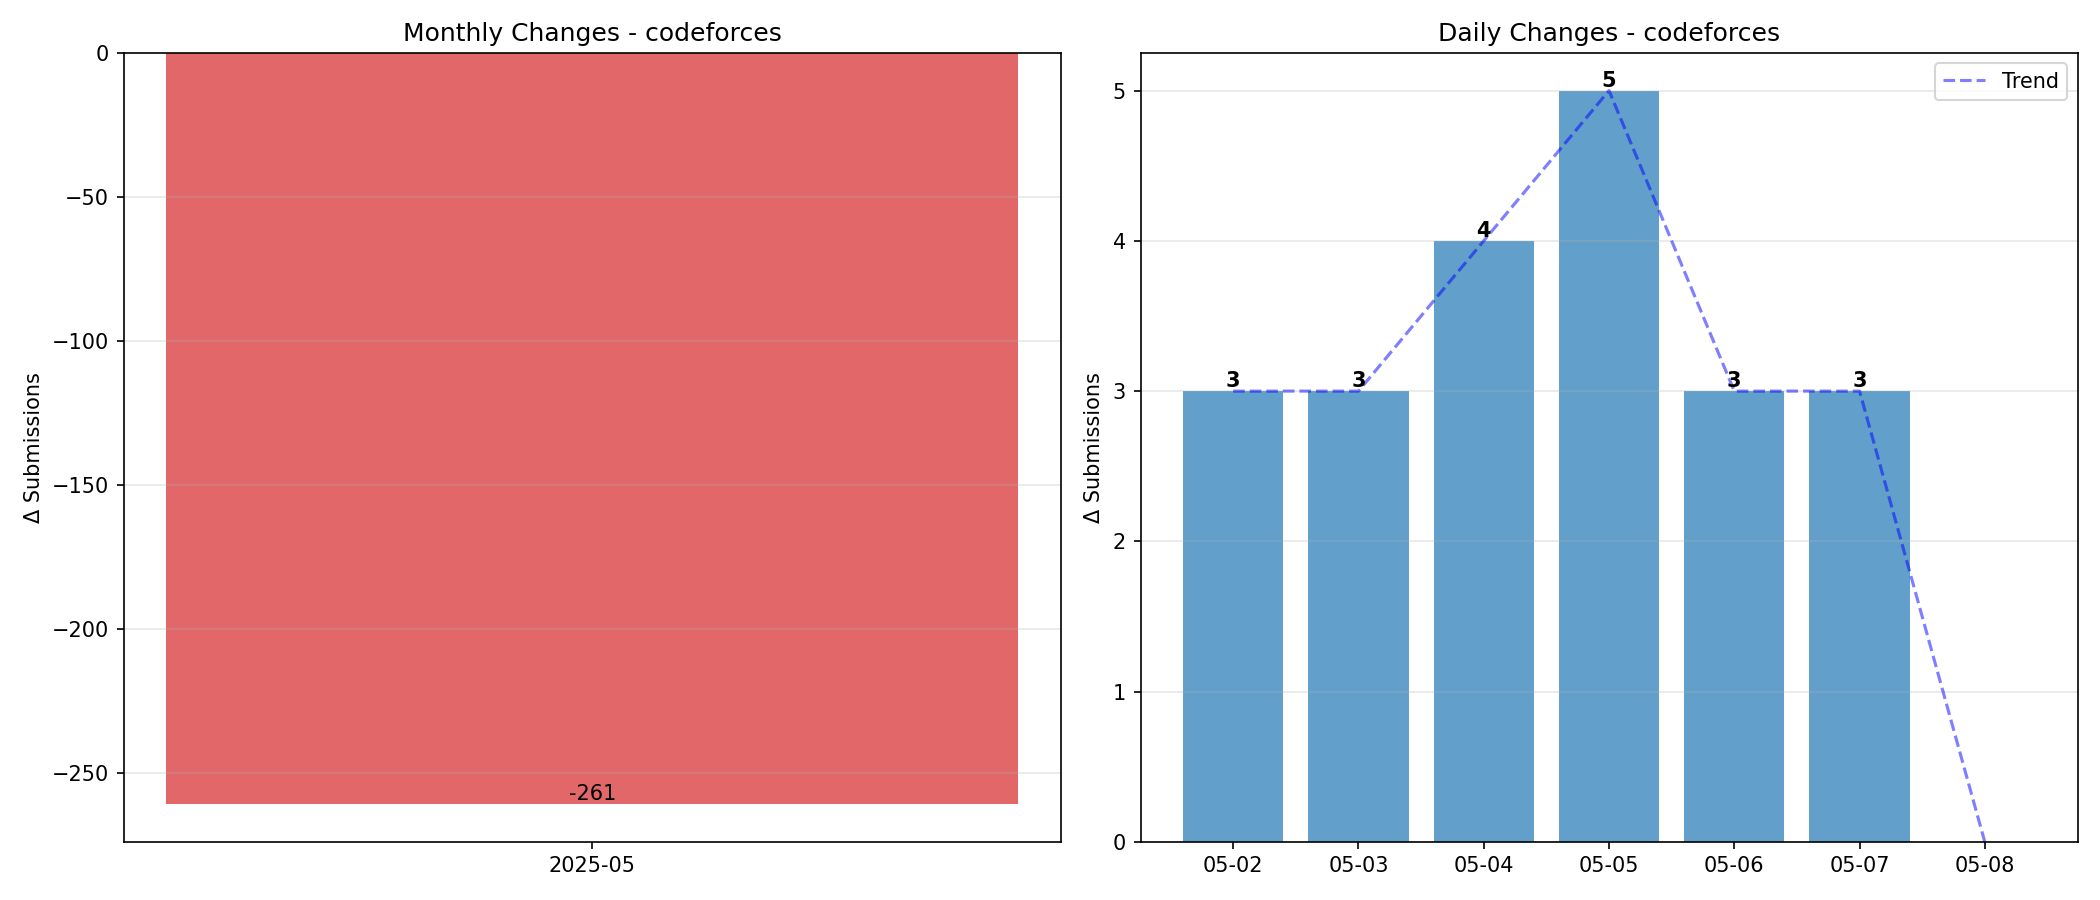
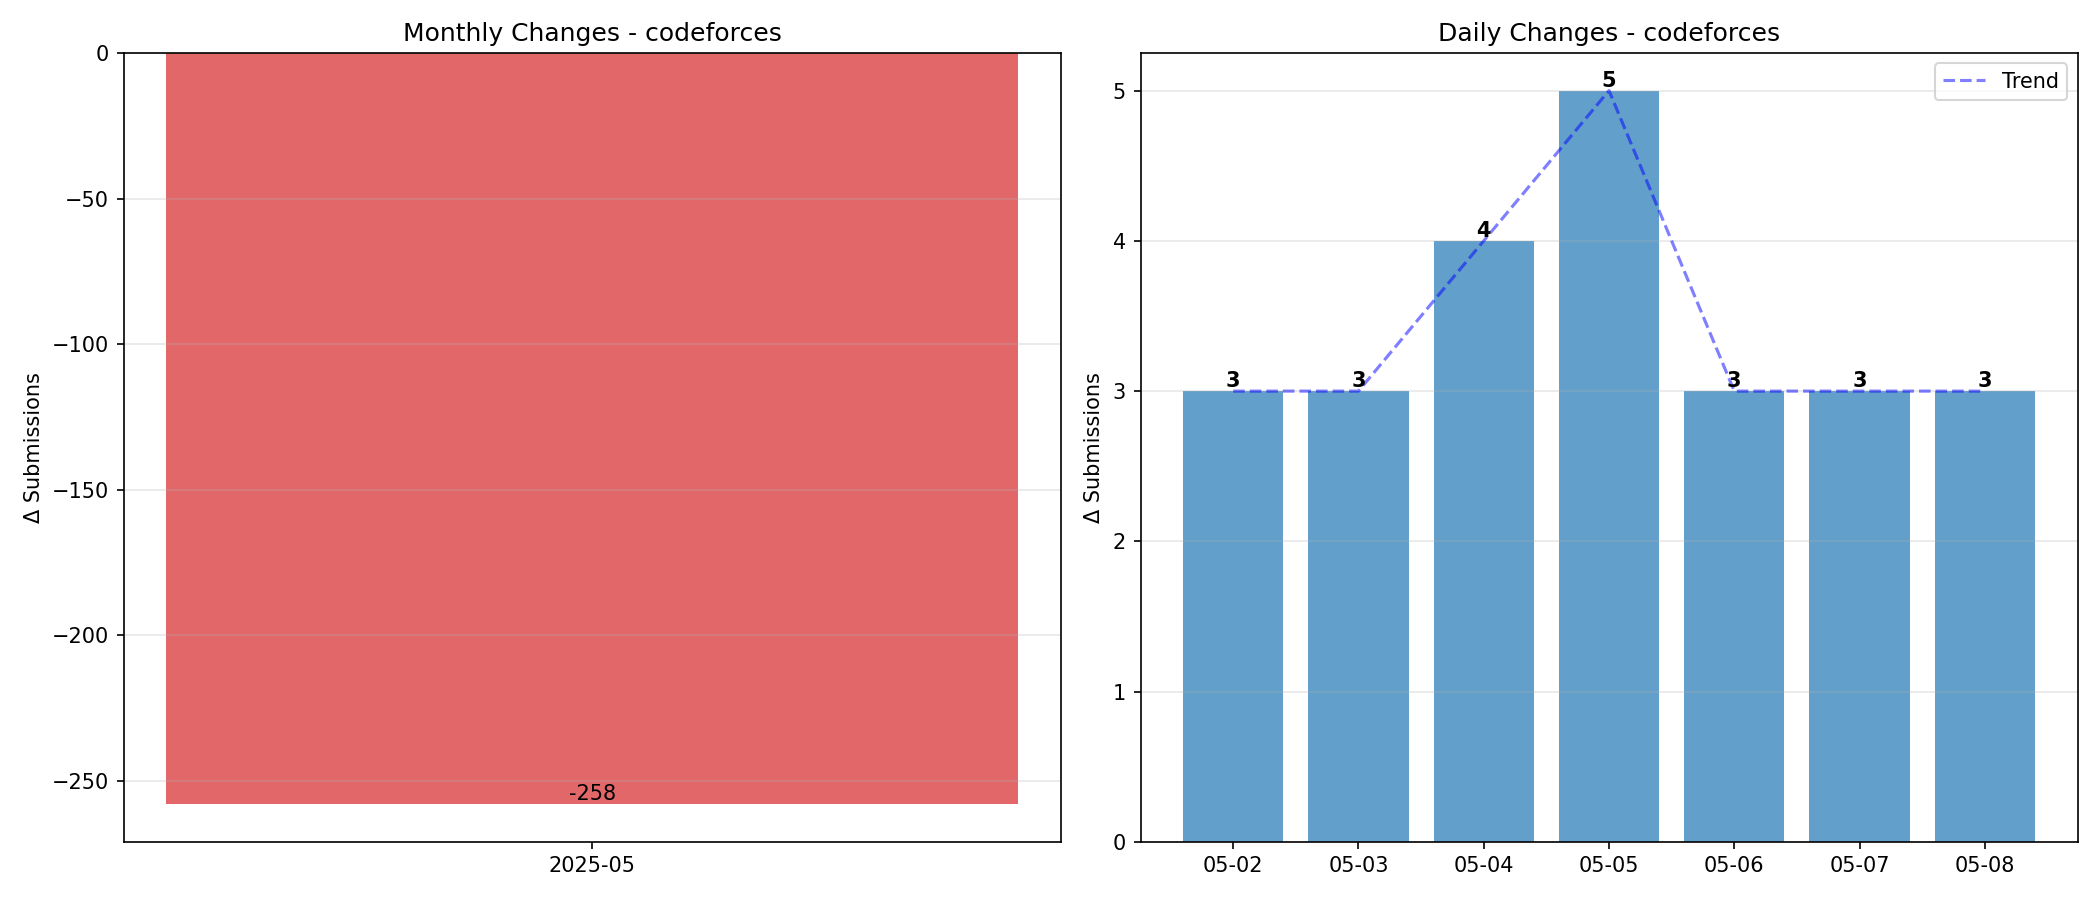
update

diff --git a/codeforces/1343B/main.cpp b/codeforces/1343B/main.cpp
@@ -1,0 +1,72 @@
+#include <bits/stdc++.h>
+using namespace std;
+
+#define ALL(x) (x).begin(), (x).end()
+#define MAXV(a, l, r) *std::max_element((a).begin() + (l), (a).begin() + (r))
+#define MINV(a, l, r) *std::min_element((a).begin() + (l), (a).begin() + (r))
+
+using ll = long long int;
+using ull = unsigned long long int;
+using PII = pair<int, int>;
+
+#define DEBUG
+
+#ifdef DEBUG
+template <typename Container>
+void PrintCon(const Container& cont)
+{
+    std::cout << "{ ";
+    if (!cont.empty()) {
+        auto it = cont.begin();
+        std::cout << "\033[33m" << *it++ << "\033[0m";
+        for (; it != cont.end(); ++it)
+            std::cout << " | " << "\033[33m" << *it << "\033[0m";
+    }
+    std::cout << " }" << std::endl;
+}
+
+template <typename... Args>
+void LOG(Args&&... values)
+{
+    ((std::cout << "\033[33m" << std::forward<Args>(values) << "\033[0m" << " "), ...);
+    std::cout << std::endl;
+}
+#else
+template <typename... Args>
+void LOG(Args&... args);
+
+template <typename Container>
+void PrintCon(const Container& cont);
+#endif
+
+void solve()
+{
+    int n;
+    cin>>n;
+    if ((n / 2) & 1) {
+        cout << "NO" << endl;
+        return;
+    }
+    cout << "YES" << endl;
+    for (int i = 2, j = 1; j <= n / 2; j++, i += 2)
+        cout << i << " ";
+    for (int i = 1, j = 1; j <= n / 2; j++, i += 2) {
+        if (j == n / 2)
+            i += (n / 2);
+        cout << i << " ";
+    }
+    cout << endl;
+}
+
+int main()
+{
+    ios::sync_with_stdio(false);
+    cin.tie(nullptr);
+    int t;
+    cin >> t;
+    while (t--) {
+        solve();
+    }
+
+    return 0;
+}

diff --git a/codeforces/427A/main.cpp b/codeforces/427A/main.cpp
@@ -1,0 +1,69 @@
+#include <bits/stdc++.h>
+using namespace std;
+
+#define ALL(x) (x).begin(), (x).end()
+#define MAXV(a, l, r) *std::max_element((a).begin() + (l), (a).begin() + (r))
+#define MINV(a, l, r) *std::min_element((a).begin() + (l), (a).begin() + (r))
+
+using ll = long long int;
+using ull = unsigned long long int;
+using PII = pair<int, int>;
+
+#define DEBUG
+#ifdef DEBUG
+template <typename Container>
+void PrintCon(const Container& cont)
+{
+    std::cout << "{ ";
+    if (!cont.empty()) {
+        auto it = cont.begin();
+        std::cout << "\033[33m" << *it++ << "\033[0m";
+        for (; it != cont.end(); ++it)
+            std::cout << " | " << "\033[33m" << *it << "\033[0m";
+    }
+    std::cout << " }" << std::endl;
+}
+
+template <typename... Args>
+void LOG(Args&&... values)
+{
+    ((std::cout << "\033[33m" << std::forward<Args>(values) << "\033[0m" << " "), ...);
+    std::cout << std::endl;
+}
+
+#else
+
+template <typename... Args>
+void LOG(Args&... args);
+template <typename Container>
+void PrintCon(const Container& cont);
+
+#endif
+
+int main()
+{
+    ios::sync_with_stdio(false);
+    cin.tie(nullptr);
+    int n;
+    cin >> n;
+    int sum = 0;
+    int ans = 0;
+    for (int i = 0; i < n; i++) {
+        int a;
+        cin >> a;
+        if (a < 0 && ans < 1) 
+        {
+            sum++;
+        }
+        if (a < 0 && ans != 0) 
+        {
+            ans--;
+        }
+        if (a > 0) 
+        {
+            ans += a;
+        }
+    }
+    cout<<sum<<endl;
+    return 0;
+}

diff --git a/codeforces/1676A/main.cpp b/codeforces/1676A/main.cpp
@@ -1,0 +1,67 @@
+#include <bits/stdc++.h>
+using namespace std;
+
+#define ALL(x) (x).begin(), (x).end()
+#define MAXV(a, l, r) *std::max_element((a).begin() + (l), (a).begin() + (r))
+#define MINV(a, l, r) *std::min_element((a).begin() + (l), (a).begin() + (r))
+
+using ll = long long int;
+using ull = unsigned long long int;
+using PII = pair<int, int>;
+
+#define DEBUG
+
+#ifdef DEBUG
+template <typename Container>
+void PrintCon(const Container& cont)
+{
+    std::cout << "{ ";
+    if (!cont.empty()) {
+        auto it = cont.begin();
+        std::cout << "\033[33m" << *it++ << "\033[0m";
+        for (; it != cont.end(); ++it)
+            std::cout << " | " << "\033[33m" << *it << "\033[0m";
+    }
+    std::cout << " }" << std::endl;
+}
+
+template <typename... Args>
+void LOG(Args&&... values)
+{
+    ((std::cout << "\033[33m" << std::forward<Args>(values) << "\033[0m" << " "), ...);
+    std::cout << std::endl;
+}
+#else
+template <typename... Args>
+void LOG(Args&... args);
+
+template <typename Container>
+void PrintCon(const Container& cont);
+#endif
+
+void solve()
+{
+    string s;
+    cin >> s;
+    int a = 0, b = 0;
+    for (int i = 0; i < 3; i++) {
+        a+=(s[i]-'0');
+    }
+    for (int i = 3; i < 6; i++) {
+        b+=(s[i]-'0');
+    }
+    cout<<(a==b?"YES":"NO")<<endl;
+}
+
+int main()
+{
+    ios::sync_with_stdio(false);
+    cin.tie(nullptr);
+    int t;
+    cin >> t;
+    while (t--) {
+        solve();
+    }
+
+    return 0;
+}
